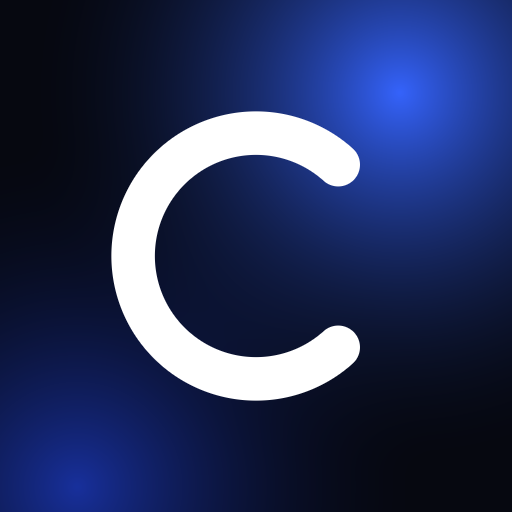
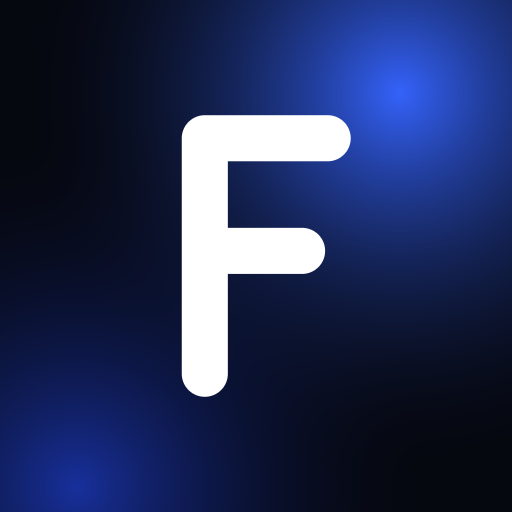
Beta 0.4: nombre Finanzas personales, ícono nuevo y registro automático por SMS de Bancolombia

Changed region(s): [[0.2188, 0.2188, 0.7188, 0.7812]]

diff --git a/index.html b/index.html
@@ -3,14 +3,14 @@
 <head>
 <meta charset="utf-8">
 <meta name="viewport" content="width=device-width, initial-scale=1, viewport-fit=cover">
-<title>Caja</title>
+<title>Finanzas personales</title>
 <link rel="manifest" href="manifest.webmanifest">
 <link rel="icon" type="image/png" href="icons/favicon.png">
 <link rel="apple-touch-icon" href="icons/apple-touch-icon.png">
 <meta name="mobile-web-app-capable" content="yes">
 <meta name="apple-mobile-web-app-capable" content="yes">
 <meta name="apple-mobile-web-app-status-bar-style" content="black-translucent">
-<meta name="apple-mobile-web-app-title" content="Caja">
+<meta name="apple-mobile-web-app-title" content="Finanzas">
 <meta name="theme-color" content="#04050A">
 <script src="config.js"></script>
 <script src="https://cdn.jsdelivr.net/npm/@supabase/supabase-js@2.45.4/dist/umd/supabase.min.js"></script>
@@ -123,6 +123,18 @@ input,select,textarea{font:inherit;color:inherit}
 .swc[aria-pressed="true"]{box-shadow:0 0 0 2px var(--ink)}
 .swc.wheel{background:conic-gradient(#f44,#fa0,#ee2,#4c4,#2cd,#36f,#a3f,#f4b,#f44);overflow:hidden;cursor:pointer}
 .swc.wheel input{position:absolute;inset:-8px;opacity:0;cursor:pointer;width:60px;height:60px}
+.inbox{grid-column:1/-1;border-color:color-mix(in srgb,var(--accent) 45%,var(--line));box-shadow:0 10px 40px -20px var(--accent)}
+.inbox .acts{display:flex;gap:6px;flex:none}
+.inbox .acts button{width:36px;height:36px;border-radius:12px;display:grid;place-items:center;background:var(--surface)}
+.inbox .acts button.ok{background:var(--accent);color:#fff}
+.inbox .acts .ico{width:17px;height:17px;stroke-width:2.2}
+.inbox .row{flex-wrap:nowrap}
+@media (max-width:560px){.inbox .row{flex-wrap:wrap;row-gap:8px}.inbox .acts{flex-basis:100%;justify-content:flex-end}}
+.copy{display:flex;gap:8px;align-items:center;background:var(--surface);border-radius:12px;padding:8px 8px 8px 12px;font-family:var(--mono);font-size:12px;word-break:break-all}
+.copy span{flex:1;min-width:0}
+.copy button{flex:none;height:32px;padding:0 12px;border-radius:10px;background:var(--ink);color:var(--bg);font-family:var(--font);font-size:12.5px;font-weight:600}
+.steps2{margin:0;padding-left:20px;display:flex;flex-direction:column;gap:12px;font-size:14px;color:var(--ink2)}
+.steps2 b{color:var(--ink)}
 .credits{display:flex;gap:14px;align-items:center;padding:14px;border-radius:16px;background:var(--surface)}
 .credits .logo{width:74px;flex:none}
 .credits b{font-size:15px}
@@ -447,7 +459,7 @@ button.row{transition:background .2s;border-radius:12px}
 <div class="bgfx" aria-hidden="true"><i class="b1"></i><i class="b2"></i><i class="b3"></i></div>
 <div class="shell">
   <nav class="nav" id="nav" aria-label="Secciones">
-    <div class="brand"><span class="wordmark"><i>C</i>Caja</span><span class="beta" style="margin:0 0 0 2px"><i></i>Beta</span></div>
+    <div class="brand"><span class="wordmark"><i>F</i>Finanzas</span><span class="beta" style="margin:0 0 0 2px"><i></i>Beta</span></div>
     <button class="mob-btn" data-act="menu" aria-label="Abrir secciones"><svg class="ico" viewBox="0 0 24 24"><path d="M4 7h16M4 12h16M4 17h10"/></svg></button>
     <a href="#inicio" data-view="inicio" class="desk-only"><svg class="ico" viewBox="0 0 24 24"><path d="M3 10.5 12 3l9 7.5V20a1 1 0 0 1-1 1h-5v-6h-6v6H4a1 1 0 0 1-1-1z"/></svg>Inicio</a>
     <a href="#movimientos" data-view="movimientos" class="desk-only"><svg class="ico" viewBox="0 0 24 24"><path d="M8 6h13M8 12h13M8 18h13M3.5 6h.01M3.5 12h.01M3.5 18h.01"/></svg>Historial</a>
@@ -468,7 +480,7 @@ button.row{transition:background .2s;border-radius:12px}
 <div class="toast" id="toast" role="status"></div>
 <div class="login" id="login" hidden>
   <div class="login-card">
-    <span class="wordmark" style="font-size:22px;font-weight:700;letter-spacing:-.03em"><i>C</i>Caja</span>
+    <span class="wordmark" style="font-size:22px;font-weight:700;letter-spacing:-.03em"><i>F</i>Finanzas personales</span>
     <span class="beta" style="align-self:flex-start;margin-top:4px"><i></i>Beta</span>
     <p class="muted">Entra con tu cuenta para tener los mismos datos en tu iPhone y en tu Mac.</p>
     <form class="form" id="loginform">
@@ -579,10 +591,12 @@ const Sync={pending:new Set(),timer:null,status:'local',uid:null,email:'',starte
     this.uid=user.id;this.email=user.email||'';hideLogin();setSync('connecting');
     try{localStorage.removeItem('caja.localOnly')}catch(e){}
     await this.pull(true);
+    inboxLoad();
     const nm=user.user_metadata&&user.user_metadata.name;if(S&&!S.settings.name&&nm){S.settings.name=nm;this.mark('state');render()}
     if(this.started)return;this.started=true;
-    sb.channel('caja-'+user.id).on('postgres_changes',{event:'*',schema:'public',table:'caja_docs',filter:'user_id=eq.'+user.id},p=>this.applyOne(p.new)).subscribe();
-    document.addEventListener('visibilitychange',()=>{if(document.visibilityState==='visible'){this.flush();this.pull(false)}});
+    sb.channel('caja-'+user.id).on('postgres_changes',{event:'*',schema:'public',table:'caja_docs',filter:'user_id=eq.'+user.id},p=>this.applyOne(p.new))
+      .on('postgres_changes',{event:'INSERT',schema:'public',table:'caja_inbox',filter:'user_id=eq.'+user.id},p=>{if(p.new&&!INBOX.some(r=>r.id===p.new.id)){INBOX.push(p.new);toast('Nuevo movimiento del banco');maybeAutoConfirm();render()}}).subscribe();
+    document.addEventListener('visibilitychange',()=>{if(document.visibilityState==='visible'){this.flush();this.pull(false);inboxLoad()}});
     addEventListener('online',()=>{this.flush();this.pull(false)});
   },
   configured(){const c=window.CAJA_CONFIG||{};return !!(c.url&&c.anonKey&&!/PEGA_AQUI/.test(c.url+c.anonKey)&&window.supabase)},
@@ -873,6 +887,138 @@ function monthBars(n=6){
     <span class="m">${MES[Number(m.k.slice(5))-1]}</span></div>`).join('')}</div>`;
 }
 
+/* ---------- captura automática: SMS de Bancolombia ---------- */
+let INBOX=[];            // [{id, raw, created_at, local}]
+const MERCHANT_CATS=[
+  ['mercado',/\b(d1|ara|exito|éxito|carulla|olimpica|olímpica|jumbo|makro|metro|isimo|justo ?& ?bueno|surtimax|supermercado|mercado)\b/i],
+  ['moto',/\b(terpel|texaco|esso|primax|biomax|mobil|zeuss|eds|gasolina|combustible|lubricentro|moto)\b/i],
+  ['transporte',/\b(uber|didi|cabify|indriver|indrive|picap|transmilenio|sitp|metro de|peaje|parqueadero|parking|taxi)\b/i],
+  ['comida',/\b(rappi|ifood|didi food|restaurante|frisby|kfc|mc ?donald|burger|pizza|starbucks|juan valdez|tostao|oma|crepes|el corral|domino|subway|panaderia|panadería|cafe|café)\b/i],
+  ['suscripciones',/\b(netflix|spotify|disney|hbo|max|prime video|amazon prime|apple\.com|itunes|google|youtube|bitdefender|2co|icloud|chatgpt|openai|claude|anthropic|adobe|canva|microsoft|xbox|playstation)\b/i],
+  ['celular',/\b(claro|movistar|tigo|wom|virgin mobile|etb)\b/i],
+  ['servicios',/\b(epm|enel|codensa|vanti|acueducto|gas natural|energia|energía|aseo|empresas publicas|empresas públicas)\b/i],
+  ['salud',/\b(drogueria|droguería|farmacia|cruz verde|farmatodo|colsubsidio|eps|clinica|clínica|odontolog|laboratorio)\b/i],
+  ['ropa',/\b(zara|h&m|falabella|arturo calle|adidas|nike|studio f|koaj|pull ?& ?bear|bershka|tennis)\b/i],
+  ['ocio',/\b(cine|cinecolombia|cine colombia|procinal|cinemark|tuboleta|eticket|bar|discoteca|steam)\b/i],
+  ['educacion',/\b(universidad|colegio|curso|udemy|platzi|coursera|libreria|librería)\b/i],
+  ['hogar',/\b(homecenter|easy|ikea|arriendo|administracion|administración|tugo|jamar)\b/i],
+];
+const normKey=m=>String(m||'').toLowerCase().normalize('NFD').replace(/[̀-ͯ]/g,'').replace(/[^a-z0-9 ]/g,' ').replace(/\s+/g,' ').trim();
+function parseAmount(v){let t=String(v).replace(/[^\d.,]/g,'');let dec=0;const m=t.match(/[.,](\d{1,2})$/);if(m){dec=Number(m[1].padEnd(2,'0'))/100;t=t.slice(0,-m[0].length)}return Math.round(Number(t.replace(/[.,]/g,''))+dec)||0}
+function parseDateCO(d){if(!d)return TODAY();const[dd,mm,yy]=d.split('/');const y=yy.length===2?'20'+yy:yy;const out=y+'-'+pad(mm)+'-'+pad(dd);return /^\d{4}-\d{2}-\d{2}$/.test(out)?out:TODAY()}
+function guessCat(merchant,kind){
+  if(kind==='income')return /n[oó]mina|salario|sueldo|pago de/i.test(merchant)?'salario':'otros_in';
+  for(const[c,re]of MERCHANT_CATS)if(re.test(merchant))return c;
+  return 'otros';
+}
+function defaultBank(){return(S.accounts.find(a=>a.type==='bank')||S.accounts.find(a=>a.type!=='card')||S.accounts[0]||{}).id}
+function parseSMS(raw){
+  const txt=String(raw||'').replace(/\s+/g,' ').trim();
+  const am=txt.match(/\$\s?([\d.,]*\d)/);if(!am)return null;
+  const amount=parseAmount(am[1]);if(!amount)return null;
+  const dm=txt.match(/(\d{1,2}\/\d{1,2}\/\d{2,4})/),tm=txt.match(/a las (\d{1,2}:\d{2})/i);
+  const last4=(txt.match(/\*(\d{4})/)||[])[1]||'';
+  let kind='expense',merchant='',what='',m;
+  if(m=txt.match(/compraste \$[\d.,]+ en (.+?) con tu/i)){merchant=m[1];what='Compra'}
+  else if(/transferiste/i.test(txt)){m=txt.match(/ a (?!la llave)(.+?) el \d/i);merchant=m?m[1]:'Transferencia enviada';what='Transferencia enviada'}
+  else if(m=txt.match(/pagaste \$[\d.,]+ (?:a|en) (.+?)(?: desde| con tu| el \d|\.|$)/i)){merchant=m[1];what='Pago'}
+  else if(/retiraste|retiro/i.test(txt)){kind='cash';merchant='Retiro en cajero';what='Retiro'}
+  else if(/recibiste|te (?:lleg[oó]|consignaron|transfirieron|enviaron)|recibida|abono|consignaci|n[oó]mina|te pag/i.test(txt)){kind='income';m=txt.match(/(?:\bde|\bdesde) (?!tu )(.+?)(?: en tu| a tu| a la| el \d|,|\.|$)/i);merchant=m?m[1]:'Ingreso';what='Ingreso'}
+  else if(/compra|pago|d[eé]bito|cobro/i.test(txt)){what='Movimiento'}
+  else return null;
+  merchant=merchant.replace(/\|/g,' · ').replace(/\s+/g,' ').trim().slice(0,60)||what;
+  const key=normKey(merchant),learned=(S.settings.merchants||{})[key]||{};
+  const category=learned.category||guessCat(merchant,kind);
+  const accountId=(S.settings.cardMap||{})[last4]||learned.accountId||defaultBank();
+  return{amount,date:parseDateCO(dm&&dm[1]),time:tm?tm[1]:'',last4,kind,merchant,what,category,accountId,key};
+}
+function learnFrom(p,tx){
+  S.settings.merchants=S.settings.merchants||{};S.settings.cardMap=S.settings.cardMap||{};
+  if(p.key&&tx.category)S.settings.merchants[p.key]={category:tx.category,accountId:tx.accountId};
+  if(p.last4&&tx.accountId)S.settings.cardMap[p.last4]=tx.accountId;
+  Sync.mark('state');
+}
+function txFromParsed(p,id){
+  const base={id,date:p.date,amount:p.amount,accountId:p.accountId,note:p.merchant};
+  if(p.kind==='income')return{...base,type:'income',category:p.category};
+  if(p.kind==='cash'){const cash=S.accounts.find(a=>a.type==='cash');if(cash&&cash.id!==p.accountId)return{...base,type:'transfer',toAccountId:cash.id,note:'Retiro en cajero'}}
+  return{...base,type:'expense',category:p.category};
+}
+async function inboxRemove(id){
+  INBOX=INBOX.filter(r=>r.id!==id);
+  if(sb&&Sync.uid&&!String(id).startsWith('local-')){try{await sb.from('caja_inbox').delete().eq('id',id)}catch(e){}}
+}
+function inboxConfirm(row,silent){
+  const p=parseSMS(row.raw);if(!p)return false;
+  const id='sms_'+String(row.id).replace(/[^a-z0-9]/gi,'').slice(0,24);
+  if(!findTx(id)){const tx=addTx(txFromParsed(p,id));learnFrom(p,tx)}
+  inboxRemove(row.id);if(!silent){toast('Registrado: '+p.merchant);render()}return true;
+}
+function maybeAutoConfirm(){if(!S.settings.autoCapture||!INBOX.length)return;let n=0;[...INBOX].forEach(r=>{if(inboxConfirm(r,true))n++});if(n){toast(n===1?'Se registró 1 movimiento del banco':'Se registraron '+n+' movimientos del banco');render()}}
+async function inboxLoad(){
+  if(!sb||!Sync.uid)return;
+  const{data,error}=await sb.from('caja_inbox').select('id,raw,created_at').order('created_at');
+  if(error)return;
+  INBOX=[...(data||[]),...INBOX.filter(r=>r.local)];maybeAutoConfirm();render();
+}
+async function inboxAdd(raw){
+  raw=String(raw||'').trim();if(!raw)return false;
+  if(sb&&Sync.uid){const{error}=await sb.from('caja_inbox').upsert({user_id:Sync.uid,raw},{onConflict:'user_id,raw',ignoreDuplicates:true});if(error){toast('No se pudo enviar a la bandeja');return false}await inboxLoad();return true}
+  INBOX.push({id:'local-'+nid(),raw,created_at:new Date().toISOString(),local:true});maybeAutoConfirm();render();return true;
+}
+function inboxCard(){
+  if(!INBOX.length)return '';
+  const rows=INBOX.map(r=>{const p=parseSMS(r.raw);
+    if(!p)return `<div class="row"><span class="mono">?</span><span class="t"><b>No reconocí este mensaje</b><small>${esc(r.raw.slice(0,90))}</small></span><span class="acts"><button data-act="inboxManual" data-id="${r.id}" aria-label="Registrar a mano">${ico('plus')}</button><button data-act="inboxDel" data-id="${r.id}" aria-label="Descartar">${ico('x')}</button></span></div>`;
+    const acc=S.accounts.find(a=>a.id===p.accountId);const inc=p.kind==='income';
+    return `<div class="row"><span class="mono ${inc?'in':''}">${esc(initials(p.merchant))}</span>
+     <span class="t"><b>${esc(p.merchant)}</b><small>${p.what} · ${fdate(p.date)}${p.time?' '+p.time:''}${p.last4?' · *'+p.last4:''} · ${esc(acc?acc.name:'')} · ${p.kind==='cash'?'a Efectivo':catById(p.category).n}</small></span>
+     <span class="v num ${inc?'pos':''}">${inc?'+':'−'}${money(p.amount).replace('−','')}</span>
+     <span class="acts"><button class="ok" data-act="inboxOk" data-id="${r.id}" aria-label="Confirmar">${ico('check')}</button><button data-act="inboxEdit" data-id="${r.id}" aria-label="Editar antes de guardar">${ico('gear')}</button><button data-act="inboxDel" data-id="${r.id}" aria-label="Descartar">${ico('x')}</button></span></div>`}).join('');
+  return `<section class="card inbox" aria-label="Por confirmar"><div class="card-head"><h3>Del banco · por confirmar (${INBOX.length})</h3>${INBOX.length>1?'<button class="linkbtn" data-act="inboxAll">Confirmar todo</button>':''}</div><div class="rows">${rows}</div>
+   <div class="muted" style="font-size:12.5px;margin-top:8px">La categoría y la cuenta se sugieren solas. Si corriges una, la app la recuerda para ese comercio o esa tarjeta.</div></section>`;
+}
+async function getCaptureKey(create){
+  if(!sb||!Sync.uid)return null;
+  const{data}=await sb.from('caja_keys').select('key').eq('user_id',Sync.uid).maybeSingle();
+  if(data&&data.key&&create!=='new')return data.key;
+  if(!create)return null;
+  const b=new Uint8Array(24);crypto.getRandomValues(b);const key=[...b].map(x=>x.toString(16).padStart(2,'0')).join('');
+  const{error}=await sb.from('caja_keys').upsert({user_id:Sync.uid,key},{onConflict:'user_id'});
+  return error?null:key;
+}
+function copyBtn(v,label){return `<div class="copy"><span>${esc(v)}</span><button type="button" data-act="copy" data-v="${esc(v)}">${label||'Copiar'}</button></div>`}
+async function smsSheet(){
+  const logged=!!(sb&&Sync.uid);
+  openSheet(`${title('Registro automático por SMS')}
+  <p class="muted" style="margin:-4px 0 14px;font-size:14px">Cada SMS de Bancolombia (compras, pagos, transferencias e ingresos) llega a la bandeja <b style="color:var(--ink)">“Por confirmar”</b> del Inicio. Tú lo confirmas con un toque.</p>
+  <label class="toggle"><span>Registrar sin confirmar<small>Los movimientos se guardan solos, con la categoría sugerida.</small></span><input type="checkbox" class="sw" id="sms-auto" ${S.settings.autoCapture?'checked':''}></label>
+  <div class="section-title">Probar con un mensaje</div>
+  <div class="field"><textarea id="sms-test" rows="3" placeholder="Pega aquí un SMS de Bancolombia"></textarea></div>
+  <div id="sms-prev" class="muted" style="font-size:13.5px;margin:8px 0"></div>
+  <button class="btn block" id="sms-send" type="button">Enviar a la bandeja</button>
+  <div class="section-title">Conectar el iPhone (una sola vez)</div>
+  ${logged?`<div id="sms-setup" class="muted">Cargando tu clave…</div>`:'<p class="muted" style="font-size:14px">Inicia sesión para conectar el iPhone.</p>'}`,async s=>{
+    $('#sms-auto',s).addEventListener('change',e=>{S.settings.autoCapture=e.target.checked;Sync.mark('state');if(e.target.checked)maybeAutoConfirm()});
+    const prev=()=>{const p=parseSMS($('#sms-test',s).value);$('#sms-prev',s).innerHTML=!$('#sms-test',s).value.trim()?'':p?`Entendí: <b style="color:var(--ink)">${p.kind==='income'?'Ingreso':p.kind==='cash'?'Retiro':'Gasto'} de ${money(p.amount)}</b> · ${esc(p.merchant)} · ${fdate(p.date)} · ${p.kind==='cash'?'a Efectivo':catById(p.category).n}${p.last4?' · *'+p.last4:''}`:'<span style="color:var(--danger)">No reconocí el formato de este mensaje.</span>'};
+    $('#sms-test',s).addEventListener('input',prev);
+    $('#sms-send',s).addEventListener('click',async()=>{if(await inboxAdd($('#sms-test',s).value)){closeSheet();toast('Enviado a “Por confirmar”')}});
+    if(!logged)return;
+    const key=await getCaptureKey(true);const box=$('#sms-setup',s);if(!box)return;
+    if(!key){box.textContent='No se pudo crear tu clave. Revisa tu conexión e inténtalo de nuevo.';return}
+    const url=CAJA_CONFIG.url+'/rest/v1/rpc/caja_capture';
+    box.outerHTML=`<ol class="steps2">
+     <li>Abre la app <b>Atajos</b> → pestaña <b>Atajos</b> → <b>+</b>. Nómbralo <b>Enviar a Finanzas</b>.</li>
+     <li>Agrega la acción <b>“Obtener contenido de URL”</b> y pega esta URL:${copyBtn(url)}</li>
+     <li>Toca <b>Mostrar más</b>: Método <b>POST</b>. En <b>Encabezados</b> agrega dos:
+       <br><b>apikey</b> con este valor:${copyBtn(CAJA_CONFIG.anonKey)}
+       <b>x-clave</b> con tu clave personal:${copyBtn(key)}</li>
+     <li>En <b>Cuerpo de la solicitud</b> elige <b>JSON</b>, agrega un campo de <b>Texto</b> llamado <b>msg</b> y como valor elige la variable <b>Entrada del atajo</b>.</li>
+     <li>Ve a la pestaña <b>Automatización</b> → <b>+</b> → <b>Mensaje</b> → <b>El mensaje contiene</b>: <b>Bancolombia</b> → marca <b>Ejecutar inmediatamente</b> → Siguiente → <b>Ejecutar atajo</b> → <b>Enviar a Finanzas</b>, con la entrada <b>Mensaje</b>.</li>
+     <li>¡Listo! El próximo SMS aparecerá en el Inicio. Tu clave solo permite <b>agregar</b> mensajes a tu bandeja, nunca leer tus datos. <button class="linkbtn" type="button" data-act="newKey">Cambiar mi clave</button></li></ol>`;
+  });
+}
+
 /* ---------- vistas ---------- */
 function header(title,sub,extra='',logo=false){
   return `<header class="top"><div class="hello"><div><span class="beta" title="Versión en desarrollo"><i></i>Beta · en desarrollo</span><h1>${title}</h1>${sub?`<div class="sub">${sub}</div>`:''}</div></div>
@@ -924,6 +1070,7 @@ function vInicio(){
   ${!allTx().length&&!S.settings.sample?`<div class="banner"><span><b>Bienvenido${S.settings.name?', '+esc(S.settings.name.split(' ')[0]):''}.</b> Empieza agregando tus cuentas (banco, Nequi, efectivo). Si tienes una copia de seguridad, puedes restaurarla.</span><span style="display:flex;gap:8px;flex-wrap:wrap"><button class="btn primary" style="height:34px" data-act="editAcc">Agregar cuenta</button><button class="btn" style="height:34px" data-act="settings">Restaurar copia</button></span></div>`:''}
   ${S.settings.sample?`<div class="banner"><span><b>Datos de ejemplo.</b> Explora la app y cuando quieras empieza con tus cuentas reales.</span><button class="btn primary" style="height:34px" data-act="startFresh">Empezar con mis datos</button></div>`:''}
   <div class="grid three">
+   ${inboxCard()}
    <section class="hero span2" aria-label="Tu dinero">
     <i class="orb a"></i><i class="orb b"></i><i class="orb c"></i>
     <div class="label">Tu dinero hoy</div><div class="big num" data-count="${T.money}">${money(T.money)}</div>
@@ -1288,7 +1435,7 @@ const fld=(label,inner,id)=>`<div class="field"><label ${id?`for="${id}"`:''}>${
 const val=id=>{const e=$('#'+id);return e?(e.type==='checkbox'?e.checked:e.value):''};
 function confirmBox(msg,act,id){return `<div class="confirm" id="confirmbox" hidden><span>${msg}</span><div style="display:flex;gap:8px"><button type="button" class="btn danger" data-act="${act}" data-id="${id}">Sí, eliminar</button><button type="button" class="btn" data-act="hideConfirm">Cancelar</button></div></div>`}
 
-function txSheet(type='expense',tx,prefill){
+function txSheet(type='expense',tx,prefill,onSave){
   const editing=!!tx&&!prefill;tx=tx||{type,amount:0,date:TODAY(),accountId:S.accounts[0]?.id,category:type==='income'?'salario':'comida',note:''};
   let cur=tx.type,cat=tx.category;
   const baseSelect=()=>{const its=(S.budget?.items||[]).filter(i=>i.kind===(cur==='income'?'income':'expense'));if(!its.length)return '';
@@ -1317,7 +1464,8 @@ function txSheet(type='expense',tx,prefill){
     s.addEventListener('submit',e=>{e.preventDefault();const amount=parseMoney(val('f-amount'));if(!amount){toast('Escribe un monto');return}
       const acc=val('f-acc'),to=val('f-to');if(cur==='transfer'&&acc===to){toast('Elige dos cuentas distintas');return}
       if(editing)removeTx(tx.id);
-      addTx({id:editing?tx.id:undefined,date:val('f-date')||TODAY(),type:cur,amount,accountId:acc,toAccountId:cur==='transfer'?to:undefined,category:cur==='transfer'?undefined:cat,note:val('f-note').trim(),budgetId:cur==='transfer'?undefined:(val('f-base')||undefined)});
+      const saved=addTx({id:editing?tx.id:undefined,date:val('f-date')||TODAY(),type:cur,amount,accountId:acc,toAccountId:cur==='transfer'?to:undefined,category:cur==='transfer'?undefined:cat,note:val('f-note').trim(),budgetId:cur==='transfer'?undefined:(val('f-base')||undefined)});
+      if(onSave)onSave(saved);
       closeSheet();toast(editing?'Movimiento actualizado':cur==='income'?'Ingreso registrado':cur==='transfer'?'Transferencia registrada':'Gasto registrado');render()});
   };
   openSheet(draw(),mount);
@@ -1451,6 +1599,8 @@ function settingsSheet(){
   <div class="field"><span class="lbl">Color de la app</span><div class="swatches" id="swatches">${PRESETS.map(([c,n])=>`<button type="button" class="swc" style="--c:${c}" data-c="${c}" aria-label="${n}" aria-pressed="${(S.settings.accent||'#2F5BFF').toLowerCase()===c.toLowerCase()}"></button>`).join('')}
    <label class="swc wheel" title="Elegir cualquier color" aria-label="Elegir cualquier color"><input type="color" id="s-color" value="${S.settings.accent||'#2F5BFF'}"></label></div></div>
   <div class="field" style="margin-top:12px"><span class="lbl">Modo</span><div class="seg" role="group" id="s-mode">${[['auto','Automático'],['light','Claro'],['dark','Oscuro']].map(([v,l])=>`<button type="button" data-m="${v}" aria-pressed="${(S.settings.theme||'auto')===v}">${l}</button>`).join('')}</div></div>
+  <div class="section-title">Registro automático</div>
+  <button class="btn block" data-act="smsSetup">${ico('phone','sm')}SMS de Bancolombia → Por confirmar</button>
   <div class="section-title">Cuenta y sincronización</div><div class="toggle" style="display:block">${syncPill()}<p class="muted" style="margin:8px 0 0;font-size:13.5px">${syncTxt}</p>
    ${Sync.uid?`<p class="muted" style="font-size:13px;margin:8px 0 10px">Conectado como <b style="color:var(--ink)">${esc(Sync.email)}</b></p><button class="btn" data-act="logout">Cerrar sesión</button>`:cfg?`<div style="margin-top:10px"><button class="btn primary" data-act="login">Iniciar sesión</button></div>`:''}</div>
   <div class="section-title">Instalar</div>
@@ -1464,7 +1614,7 @@ function settingsSheet(){
    ${confirmBox('Se borran cuentas, movimientos, metas y deudas en todos tus dispositivos. No se puede deshacer.','wipe','all')}
   </div>
   <div class="section-title">Acerca de</div>
-  <div class="credits"><span class="logo" role="img" aria-label="Firma del desarrollador"></span><div><b>Caja</b> <span class="beta" style="margin:0 0 0 4px;vertical-align:2px"><i></i>Beta 0.3</span>
+  <div class="credits"><span class="logo" role="img" aria-label="Firma del desarrollador"></span><div><b>Finanzas personales</b> <span class="beta" style="margin:0 0 0 4px;vertical-align:2px"><i></i>Beta 0.4</span>
    <small>Diseño y desarrollo: Juan Camilo Orozco</small><small>App personal de finanzas · Colombia, 2026</small></div></div>`,s=>{
     const saveAccent=c=>{S.settings.accent=c;applyTheme();Sync.mark('state');$$('.swc[data-c]',s).forEach(b=>b.setAttribute('aria-pressed',b.dataset.c.toLowerCase()===c.toLowerCase()))};
     s.addEventListener('click',e=>{const b=e.target.closest('.swc[data-c]');if(b){saveAccent(b.dataset.c);$('#s-color',s).value=b.dataset.c}
@@ -1473,7 +1623,7 @@ function settingsSheet(){
     $('#s-color',s).addEventListener('change',e=>saveAccent(e.target.value));
     s.addEventListener('submit',e=>{e.preventDefault();S.settings.name=val('s-name').trim();Sync.mark('state');closeSheet();render()});
     $('#importfile',s).addEventListener('change',async e=>{const f=e.target.files[0];if(!f)return;try{const j=JSON.parse(await f.text());if(!j.S||!j.TX)throw 0;
-      const old=Object.keys(TX);S=j.S;TX=j.TX;Sync.mark('state',...new Set([...old,...Object.keys(TX)].map(k=>'tx-'+k)));closeSheet();toast('Copia restaurada');render()}catch(err){toast('Ese archivo no es una copia válida de Caja')}});
+      const old=Object.keys(TX);S=j.S;TX=j.TX;Sync.mark('state',...new Set([...old,...Object.keys(TX)].map(k=>'tx-'+k)));closeSheet();toast('Copia restaurada');render()}catch(err){toast('Ese archivo no es una copia válida de Finanzas personales')}});
   });
 }
 
@@ -1502,6 +1652,16 @@ const ACT={
   delAcc:d=>{S.accounts=S.accounts.filter(a=>a.id!==d.id);Sync.mark('state');closeSheet();render()},
   settings:()=>settingsSheet(),
   goAccounts:()=>{closeSheet();location.hash='cuentas'},
+  smsSetup:()=>smsSheet(),
+  newKey:async()=>{const k=await getCaptureKey('new');if(k){toast('Clave nueva creada: actualízala en tu Atajo');smsSheet()}},
+  copy:async(d,el)=>{try{await navigator.clipboard.writeText(d.v);el.textContent='Copiado ✓';setTimeout(()=>el.textContent='Copiar',1600)}catch(e){const sp=el.previousElementSibling;const r=document.createRange();r.selectNodeContents(sp);const sel=getSelection();sel.removeAllRanges();sel.addRange(r);toast('Selecciona y copia el texto')}},
+  inboxOk:d=>{const r=INBOX.find(x=>String(x.id)===d.id);if(r)inboxConfirm(r)},
+  inboxAll:()=>{let n=0;[...INBOX].forEach(r=>{if(inboxConfirm(r,true))n++});toast(n+' movimientos registrados');render()},
+  inboxDel:d=>{inboxRemove(isNaN(d.id)?d.id:d.id).then(()=>{toast('Descartado');render()})},
+  inboxEdit:d=>{const r=INBOX.find(x=>String(x.id)===d.id);if(!r)return;const p=parseSMS(r.raw);if(!p)return;const t=txFromParsed(p);
+    txSheet(t.type,{...t,id:undefined},true,saved=>{learnFrom(p,saved);inboxRemove(r.id).then(render)})},
+  inboxManual:d=>{const r=INBOX.find(x=>String(x.id)===d.id);if(!r)return;const am=(r.raw.match(/\$\s?([\d.,]*\d)/)||[])[1];
+    txSheet('expense',{type:'expense',amount:am?parseAmount(am):0,date:TODAY(),accountId:defaultBank(),category:'otros',note:''},true,()=>{inboxRemove(r.id).then(render)})},
   menu:()=>{const items=[['inicio','Inicio','<path d="M3 10.5 12 3l9 7.5V20a1 1 0 0 1-1 1h-5v-6h-6v6H4a1 1 0 0 1-1-1z"/>'],['movimientos','Historial','<path d="M8 6h13M8 12h13M8 18h13M3.5 6h.01M3.5 12h.01M3.5 18h.01"/>'],['pagos','Pagos','<rect x="3" y="4.5" width="18" height="16.5" rx="2.5"/><path d="M3 9.5h18M8 2.5v4M16 2.5v4"/>'],['metas','Metas','<circle cx="12" cy="12" r="9"/><circle cx="12" cy="12" r="5"/><circle cx="12" cy="12" r="1.2"/>'],['base','Mes base','<path d="M4 20V10M10 20V4M16 20v-7M22 20H2"/>'],['cuentas','Cuentas','<rect x="3" y="6" width="18" height="14" rx="2.5"/><path d="M16 13h2M3 10h18M6 6V4.5h11V6"/>'],['consejos','Consejos','<path d="M9 18h6M10 21h4M12 3a6 6 0 0 0-3.5 10.9c.6.5 1 1.2 1 2.1h5c0-.9.4-1.6 1-2.1A6 6 0 0 0 12 3z"/>']];
     openSheet(`${title('Secciones')}<div class="menu-grid">${items.map(([v,n,p])=>`<a href="#${v}" data-act="closeSheet" ${UI.view===v?'aria-current="page"':''}><svg class="ico" viewBox="0 0 24 24">${p}</svg>${n}</a>`).join('')}<button type="button" data-act="settings"><svg class="ico" viewBox="0 0 24 24"><path d="M4 7h10M18 7h2M4 17h4M12 17h8"/><circle cx="16" cy="7" r="2"/><circle cx="10" cy="17" r="2"/></svg>Ajustes</button></div>`)},
   login:()=>{closeSheet();showLogin()},
@@ -1516,7 +1676,7 @@ const ACT={
   payCard:d=>{const a=S.accounts.find(x=>x.id===d.id);if(!a)return;txSheet('transfer',{type:'transfer',amount:Math.max(0,-accBalance(a.id)),date:TODAY(),accountId:S.accounts.find(x=>x.type!=='card')?.id,toAccountId:a.id,note:'Pago '+a.name},true)},
   startFresh:()=>{openSheet(`${title('Empezar con tus datos')}<p class="muted" style="margin:0 0 16px">Se borran los datos de ejemplo. Luego agrega tus cuentas (bancos, Nequi, efectivo, tarjetas) con su saldo actual y programa tu sueldo y pagos fijos.</p><button class="btn primary block" data-act="wipe">Borrar ejemplo y empezar</button>`)},
   wipe:()=>{const old=Object.keys(TX),keepBase=S.budget;S=emptyState();if(keepBase)S.budget=keepBase;TX={};old.forEach(k=>TX[k]=[]);Sync.mark('state',...old.map(k=>'tx-'+k));TX={};closeSheet();UI.animNext=true;location.hash='cuentas';go('cuentas');setTimeout(()=>accSheet(),350)},
-  exportData:async()=>{const data=JSON.stringify({app:'caja',exported:new Date().toISOString(),S,TX},null,1);const name='caja-finanzas-'+TODAY()+'.json';
+  exportData:async()=>{const data=JSON.stringify({app:'caja',exported:new Date().toISOString(),S,TX},null,1);const name='finanzas-personales-'+TODAY()+'.json';
     
     const a=document.createElement('a');a.href=URL.createObjectURL(new Blob([data],{type:'application/json'}));a.download=name;a.click();}
 };

diff --git a/sw.js b/sw.js
@@ -1,6 +1,6 @@
 // Funciona sin internet: primero intenta la red (así siempre ves la última versión)
 // y si no hay conexión usa la copia guardada.
-const CACHE = 'caja-v2';
+const CACHE = 'finanzas-v3';
 const CORE = ['./', './index.html', './config.js', './manifest.webmanifest', './icons/icon-192.png', './icons/apple-touch-icon.png'];
 self.addEventListener('install', e => { e.waitUntil(caches.open(CACHE).then(c => c.addAll(CORE))); self.skipWaiting(); });
 self.addEventListener('activate', e => {

diff --git a/LEEME.md b/LEEME.md
@@ -1,4 +1,4 @@
-# Caja: tu app de finanzas independiente
+# Finanzas personales (antes "Caja")
 
 **Tu app:** https://camilofx2.github.io/caja/  ·  Código: github.com/camilofx2/caja  ·  Datos: Supabase, proyecto `caja`
 
